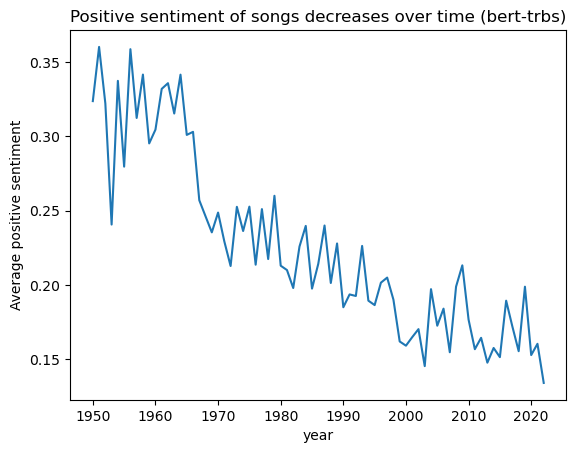
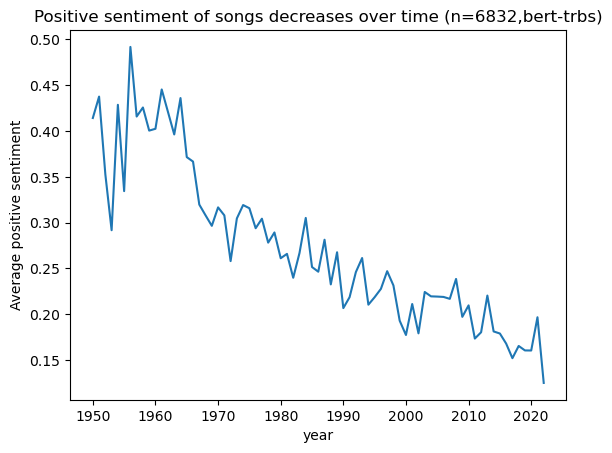
updated sentiment over time using clean lyrics

Changed region(s): [[0.0, 0.0, 1.0, 0.989], [0.2188, 0.8962, 0.4062, 0.9272], [0.125, 0.8962, 0.1875, 0.9272]]

diff --git a/src/sentiment_per_year_trbs_model.py b/src/sentiment_per_year_trbs_model.py
@@ -36,9 +36,6 @@ print("Generate sample...")
 #Generate sample of lyrics - only
 song_lyrics_clean_sample_df = song_lyrics_clean_df.copy()
 
-#Songs from 1950 onwards
-song_lyrics_clean_sample_df = song_lyrics_clean_sample_df[(song_lyrics_clean_sample_df['year'] >= 1950)]
-
 #Generate sample based on year
 song_lyrics_clean_sample_df= song_lyrics_clean_sample_df.groupby('year').apply(lambda x: x.sample(n=100, random_state=42) if len(x) > 100 else x)
 song_lyrics_clean_sample_df = song_lyrics_clean_sample_df.reset_index(drop=True)
@@ -48,9 +45,9 @@ print("Load BERT-TRBS model...")
 tokenizer, model, labels = bms.load_model(device = device,
                                           model_name = "cardiffnlp/twitter-roberta-base-sentiment")
 
-#Apply sentiment over chunks
+#Apply sentiment over chunks of "clean lyrics"
 print("Apply senitment over chunks...")
-song_lyrics_clean_sample_df['sentiment'] = song_lyrics_clean_sample_df.apply(lambda row: bms.sentiment_over_chunks(lyrics = row['lyrics'],tokenizer=tokenizer,labels = labels, model = model, device= device), axis=1)
+song_lyrics_clean_sample_df['sentiment'] = song_lyrics_clean_sample_df.apply(lambda row: bms.sentiment_over_chunks(lyrics = row['clean_lyrics'],tokenizer=tokenizer,labels = labels, model = model, device= device), axis=1)
 
 #Extract sentiment into different columns
 print("Extract sentiment labels into new columns...")
@@ -60,6 +57,6 @@ song_lyrics_clean_sample_df['sentiment_negative'] = song_lyrics_clean_sample_df[
 song_lyrics_clean_sample_df['sentiment_neutral'] = song_lyrics_clean_sample_df['sentiment'].apply(lambda x: x['scores']['neutral'])
 
 #generate graph of sentiment over time
-positive_sentiment_per_year_df = song_lyrics_clean_sample_df.groupby('year')['sentiment_positive'].mean().plot(title="Positive sentiment of songs decreases over time (bert-trbs)",
+positive_sentiment_per_year_df = song_lyrics_clean_sample_df.groupby('year')['sentiment_positive'].mean().plot(title="Positive sentiment of songs decreases over time (n=6832,bert-trbs)",
                                                                                                                ylabel="Average positive sentiment")
 
